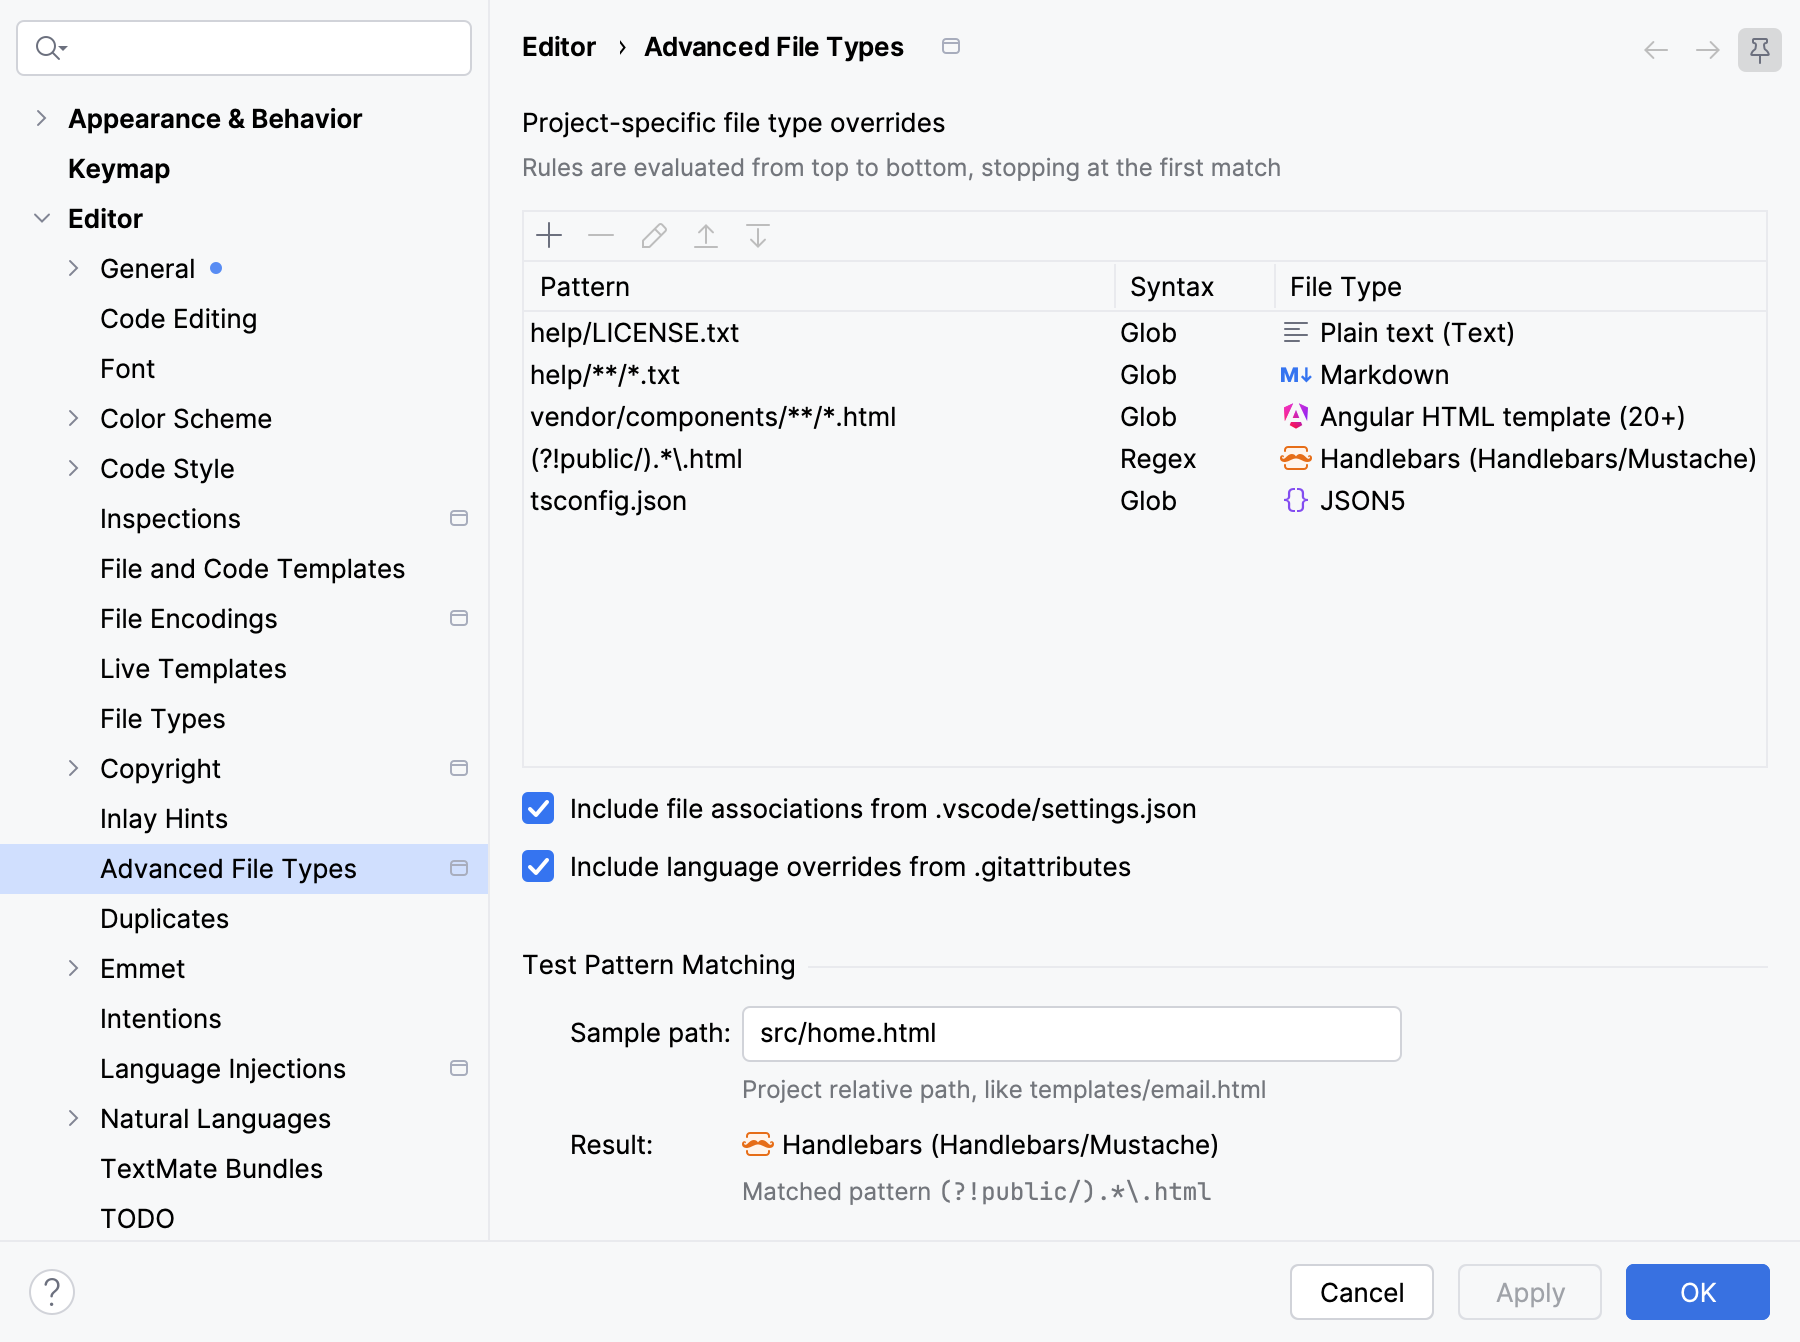
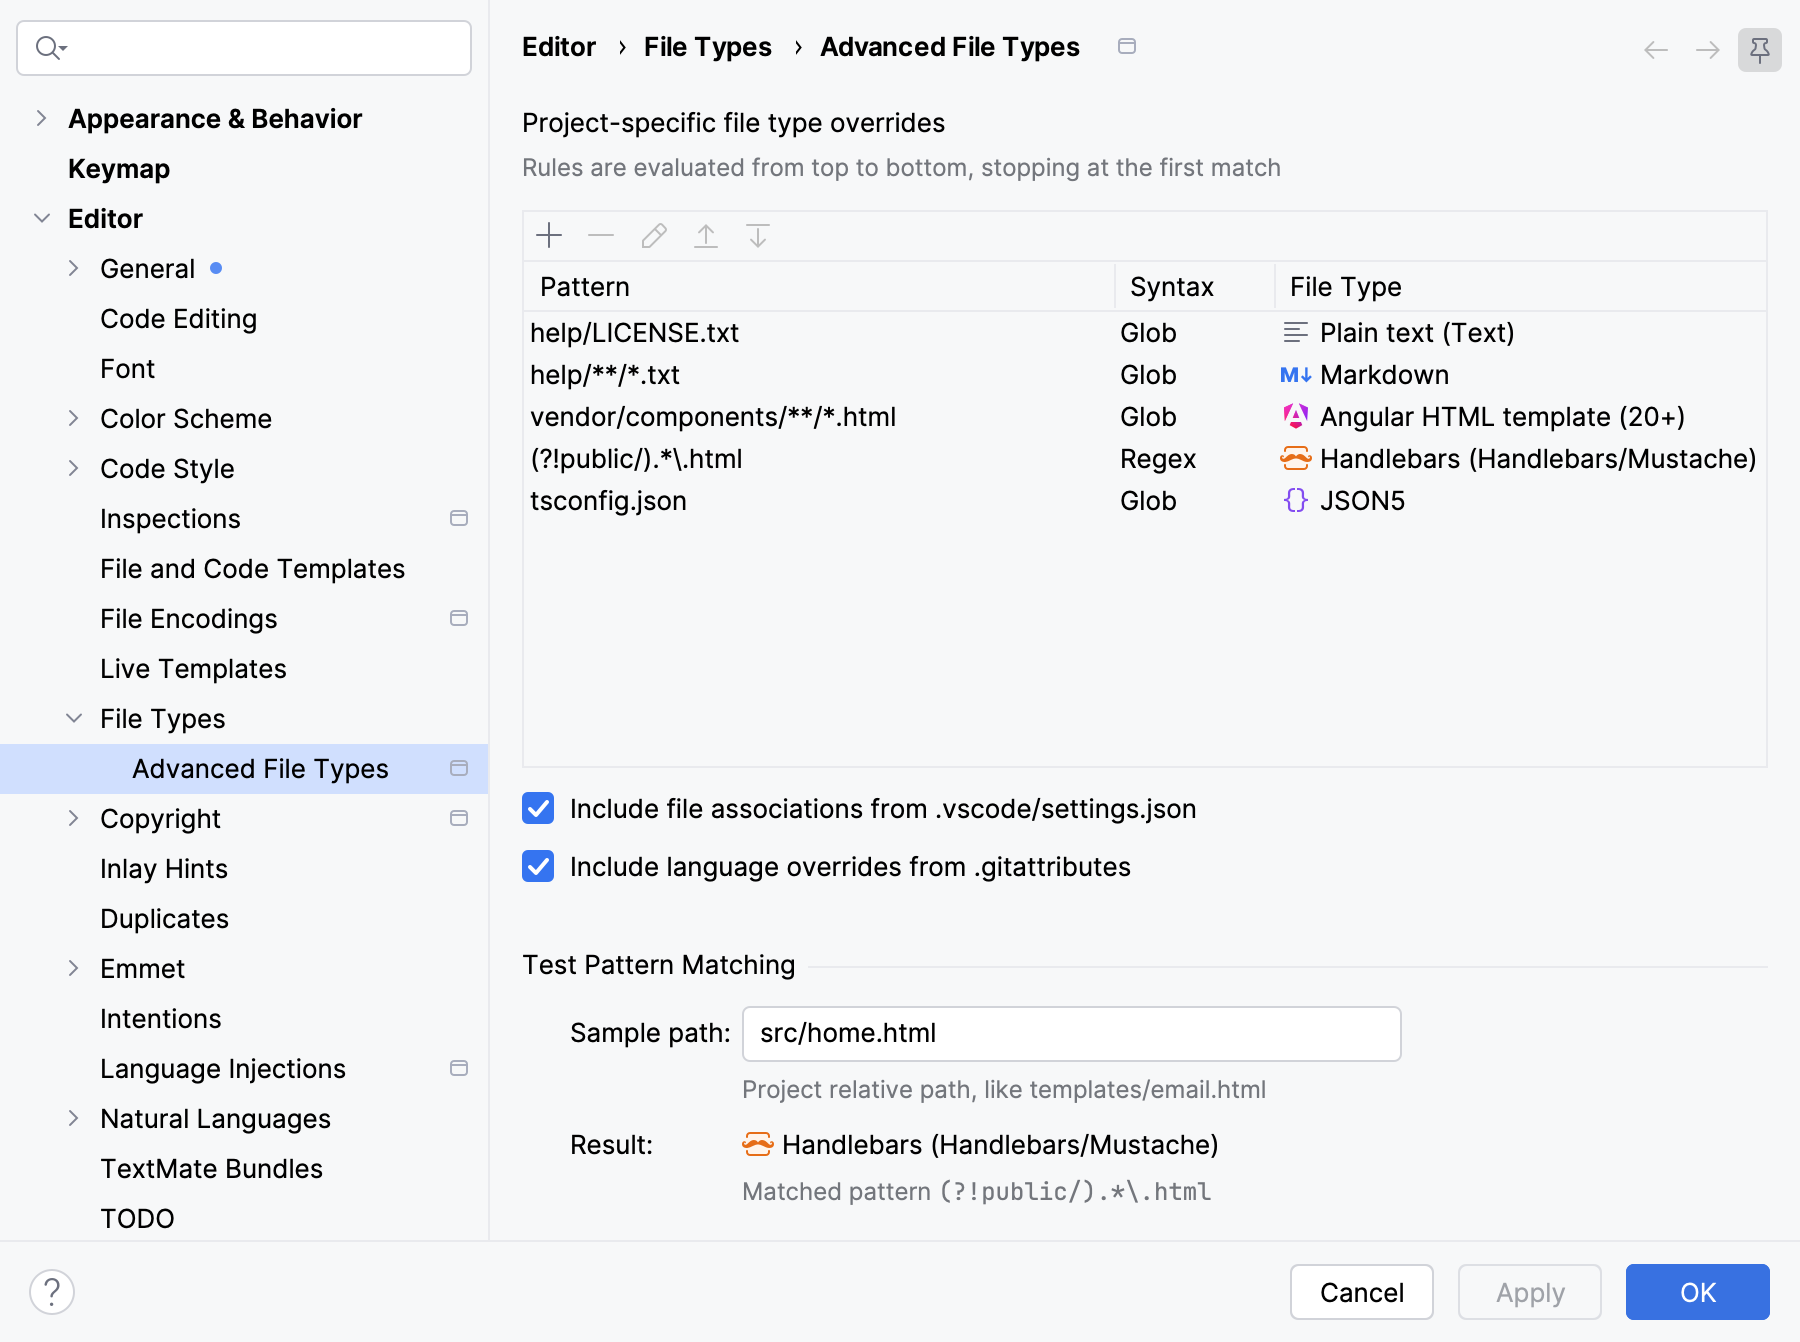
Move settings page under IDE File Types

Changed region(s): [[0.0, 0.5499, 0.28, 0.6721], [0.3422, 0.0306, 0.5911, 0.0611]]

diff --git a/AGENTS.md b/AGENTS.md
@@ -21,7 +21,7 @@ JetBrains IDEs natively support only global, project-agnostic file type associat
 
 ### Evaluation Hierarchy
 When resolving a file's type, rules are evaluated in the following strict order, stopping at the first match:
-1. **Custom Project Rules:** Configured in **Settings | Editor | Advanced File Types**, evaluated top-to-bottom.
+1. **Custom Project Rules:** Configured in **Settings | Editor | File Types | Advanced File Types**, evaluated top-to-bottom.
 2. **VS Code Settings:** `.vscode/settings.json` (`files.associations`), if enabled.
 3. **Git Attributes:** `.gitattributes` (`linguist-language`), if enabled.
 4. **IDE Global Associations:** Default IntelliJ fallback (`Settings | Editor | File Types`).
@@ -62,7 +62,7 @@ When resolving a file's type, rules are evaluated in the following strict order,
   - `LinguistLanguageResolver`: Maps Linguist language identifiers to IntelliJ `FileType` instances via `linguist-language-map.properties`.
   - `GitAttributesFileListener`: `BulkFileListener` detecting changes to any `.gitattributes` or `.git/info/attributes` files to trigger cache clear and file type refresh.
 - **`ui/`**:
-  - `AdvancedFileTypeConfigurable`: Settings page registered under `editor` (`Settings | Editor | Advanced File Types`).
+  - `AdvancedFileTypeConfigurable`: Settings page registered under `preferences.fileTypes` (`Settings | Editor | File Types | Advanced File Types`).
   - `AddEditRuleDialog`: Modal dialog for creating and editing individual pattern rules.
 - **`help/`**:
   - `AdvancedFileTypeWebHelpProvider`: Directs IDE help buttons to online documentation.

diff --git a/README.md b/README.md
@@ -62,7 +62,7 @@ Alternatively, download the latest release from the [JetBrains Marketplace](http
 
 ## Usage
 
-Configure file type overrides in **Settings | Editor | Advanced File Types**.
+Configure file type overrides in **Settings | Editor | File Types | Advanced File Types**.
 
 * Use the `+` button to add a new rule, `-` to remove a rule, and arrow buttons to reorder rules. Select an existing rule and click the pencil button to edit it (or double click it in the list).
 * Use the checkboxes to enable or disable VS Code and Git attributes matching. (Both are enabled by default.)

diff --git a/CHANGELOG.md b/CHANGELOG.md
@@ -5,6 +5,7 @@
 ## [Unreleased]
 
 ### Changed
+* Moved the Advanced File Types settings page under **Settings | Editor | File Types**.
 * Test Pattern Matching now displays the global file type when no override rule applies.
 * Test Pattern Matching now highlights the matching pattern in the rules list.
 
